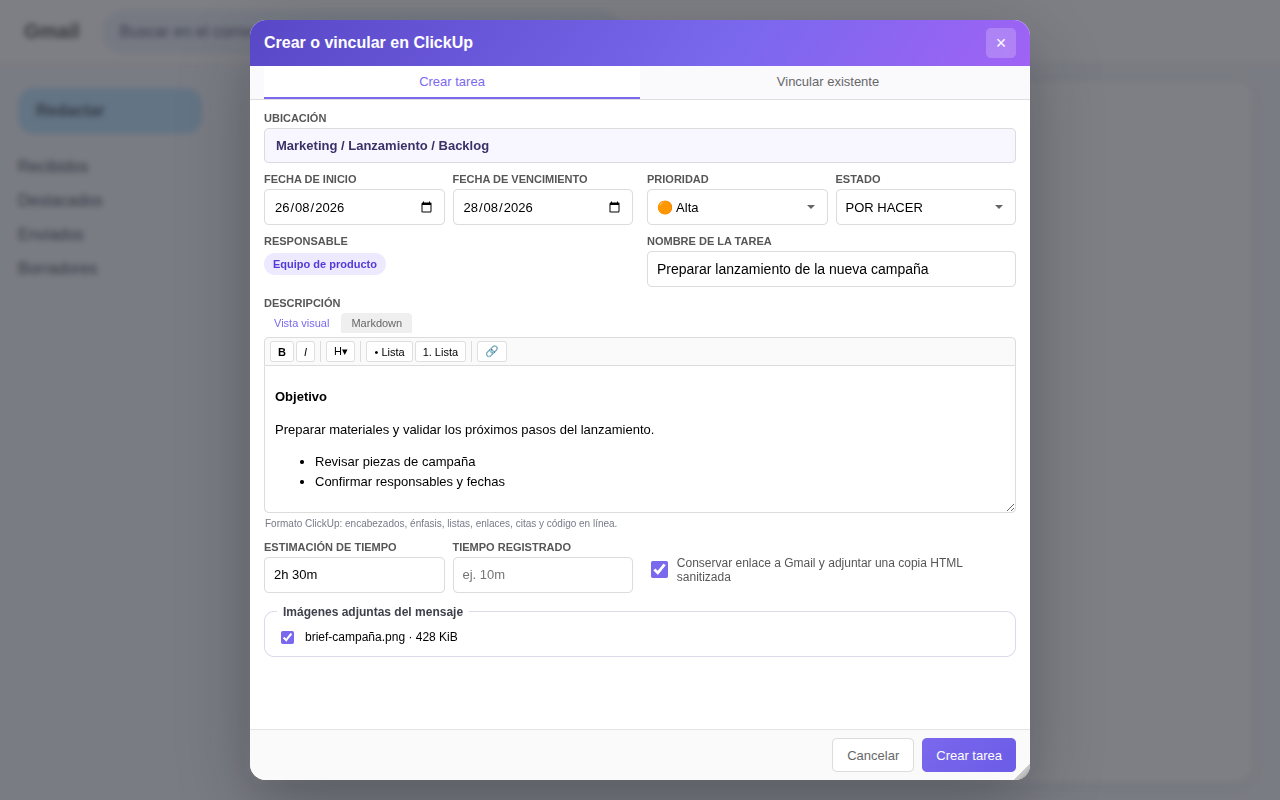
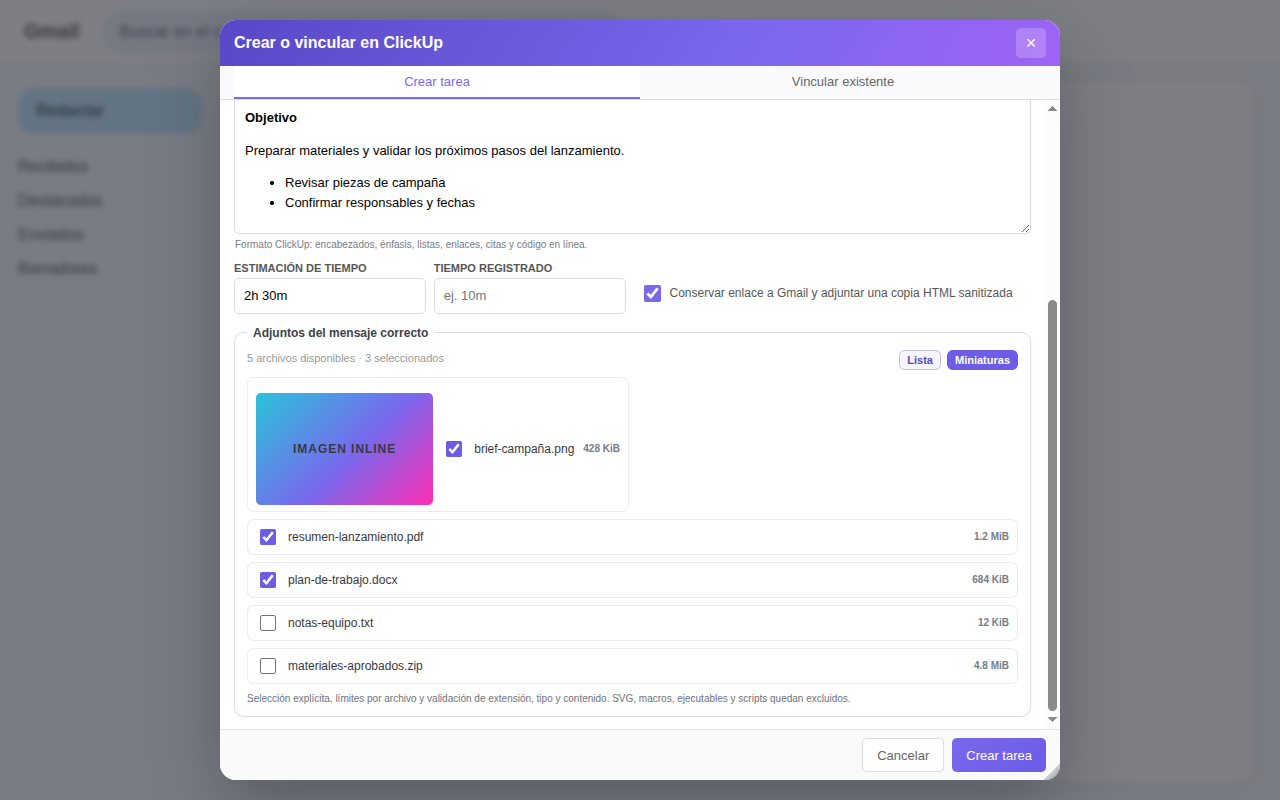
docs: finalize Chrome 2.1.0 release assets

diff --git a/store-assets/screenshot-create-task.html b/store-assets/screenshot-create-task.html
@@ -20,14 +20,25 @@
     .gmail-message h1 { margin: 0 0 18px; font-size: 22px; }
     .gmail-message p { max-width: 680px; color: #687087; line-height: 1.6; }
     .cu-modal-container { background: rgba(18,20,31,.56); backdrop-filter: blur(3px); }
-    .cu-modal-window { height: min(760px, calc(100vh - 24px)); }
+    .cu-modal-window { width: min(840px, calc(100vw - 24px)); height: min(760px, calc(100vh - 24px)); }
     .cu-location-path { display: block; padding: 9px 11px; border: 1px solid #ddd; border-radius: 5px; color: #372d68; background: #f8f7ff; font-size: 13px; font-weight: 700; }
     .cu-editor-visual { min-height: 112px; }
     .cu-selected-assignees { margin-top: 6px; }
     .demo-assignee { display: inline-flex; align-items: center; gap: 6px; padding: 5px 9px; border-radius: 99px; color: #5138d8; background: #eeeaff; font-size: 11px; font-weight: 700; }
-    .cu-attachment-picker { padding: 9px 12px; }
-    .demo-file { display: flex; align-items: center; gap: 8px; font-size: 12px; }
-    .demo-file input { accent-color: #7B68EE; }
+    .cu-attachment-picker { padding: 10px 12px; }
+    .cu-attachment-toggle[aria-pressed="true"] { color: #fff; background: #6c5ce7; border-color: #6c5ce7; }
+    .cu-attachment-list-thumbnails { grid-template-columns: repeat(2, minmax(0, 1fr)); }
+    .cu-attachment-option-image { min-width: 0; }
+    .demo-preview {
+      display: grid !important;
+      place-items: center;
+      color: #fff;
+      background: linear-gradient(135deg, #26c6da, #7b68ee 55%, #ff2bb5) !important;
+      font-size: 12px;
+      font-weight: 800;
+      letter-spacing: .08em;
+    }
+    .demo-safety-note { margin: 8px 0 0; color: #6e7080; font-size: 10px; line-height: 1.4; }
   </style>
 </head>
 <body>
@@ -62,11 +73,55 @@
           <div class="cu-form-row cu-form-row-inline"><div class="cu-form-group"><label>Estimación de tiempo</label><input type="text" class="cu-input" value="2h 30m"></div><div class="cu-form-group"><label>Tiempo registrado</label><input type="text" class="cu-input" placeholder="ej. 10m"></div></div>
           <div class="cu-form-row cu-email-options"><label class="cu-checkbox-label"><input type="checkbox" checked> Conservar enlace a Gmail y adjuntar una copia HTML sanitizada</label></div>
         </div>
-        <fieldset class="cu-attachment-picker cu-attach-files-row"><legend>Imágenes adjuntas del mensaje</legend><label class="demo-file"><input type="checkbox" checked> brief-campaña.png · 428 KiB</label></fieldset>
+        <fieldset class="cu-attachment-picker cu-attach-files-row">
+          <legend>Adjuntos del mensaje correcto</legend>
+          <div class="cu-attachment-toolbar">
+            <p class="cu-hint">5 archivos disponibles · 3 seleccionados</p>
+            <div class="cu-attachment-actions" role="group" aria-label="Vista de adjuntos">
+              <button class="cu-attachment-toggle" type="button" aria-pressed="false">Lista</button>
+              <button class="cu-attachment-toggle" type="button" aria-pressed="true">Miniaturas</button>
+            </div>
+          </div>
+          <div class="cu-attachment-list cu-attachment-list-thumbnails">
+            <label class="cu-attachment-option cu-attachment-option-image">
+              <span class="cu-attachment-preview demo-preview">IMAGEN INLINE</span>
+              <input type="checkbox" checked>
+              <span>brief-campaña.png</span>
+              <small>428 KiB</small>
+            </label>
+            <label class="cu-attachment-option">
+              <input type="checkbox" checked>
+              <span>resumen-lanzamiento.pdf</span>
+              <small>1.2 MiB</small>
+            </label>
+            <label class="cu-attachment-option">
+              <input type="checkbox" checked>
+              <span>plan-de-trabajo.docx</span>
+              <small>684 KiB</small>
+            </label>
+            <label class="cu-attachment-option">
+              <input type="checkbox">
+              <span>notas-equipo.txt</span>
+              <small>12 KiB</small>
+            </label>
+            <label class="cu-attachment-option">
+              <input type="checkbox">
+              <span>materiales-aprobados.zip</span>
+              <small>4.8 MiB</small>
+            </label>
+          </div>
+          <p class="demo-safety-note">Selección explícita, límites por archivo y validación de extensión, tipo y contenido. SVG, macros, ejecutables y scripts quedan excluidos.</p>
+        </fieldset>
       </div>
       <div class="cu-modal-footer"><button class="cu-btn cu-btn-secondary">Cancelar</button><button class="cu-btn cu-btn-primary">Crear tarea</button></div>
       <div class="cu-resize-handle"></div>
     </div>
   </div>
+  <script>
+    requestAnimationFrame(() => {
+      const body = document.querySelector('.cu-modal-body');
+      if (body) body.scrollTop = body.scrollHeight;
+    });
+  </script>
 </body>
 </html>

diff --git a/app/app.html b/app/app.html
@@ -81,7 +81,7 @@
                         <button type="button" class="theme-btn owner-theme-option" data-theme-choice="spiritfox" aria-pressed="false" hidden><span class="theme-swatch theme-swatch-spiritfox" aria-hidden="true"></span>Spiritfox</button>
                     </div>
                     <div class="phase-badge"><span aria-hidden="true"></span>Gmail · Calendar · Meet</div>
-                    <button id="pluginVersionUnlock" class="version-unlock" type="button" aria-label="Versión de la extensión">v2.0.1</button>
+                    <button id="pluginVersionUnlock" class="version-unlock" type="button" aria-label="Versión de la extensión">v2.1.0</button>
                 </div>
             </header>
 

diff --git a/MULTIBROWSER_MIGRATION_PLAN.md b/MULTIBROWSER_MIGRATION_PLAN.md
@@ -7,7 +7,10 @@ distribuciones independientes.
 ## Baseline
 
 - Fecha del plan: 2026-08-23.
-- Fuente estable: `main` en `dd556a40dc413bdb71dfa08dbbff44ab605ef572`.
+- Base integrada: `main` en `dd556a40dc413bdb71dfa08dbbff44ab605ef572`.
+- Release candidate Chrome: `2.1.0` en
+  `chore/remove-inboxsdk-remnants`, commit
+  `c620ad5 feat: release TaskBridge v2.1.0`.
 - Release de rollback: `v2.0.1`.
 - Distribuciones objetivo: Chrome Web Store y Firefox Add-ons (AMO).
 - Repositorio: uno.
@@ -15,6 +18,8 @@ distribuciones independientes.
 - Artefactos, manifiestos, OAuth, firma y publicacion: separados por navegador.
 - El workspace experimental anterior de Firefox fue eliminado y no es una
   fuente valida para esta migracion.
+- La ficha HKS vigente aun describe ese workspace eliminado y queda
+  `needs-review`; no usar sus manifests, builds ni decisiones como entrada.
 
 ## Estados
 
@@ -94,12 +99,12 @@ Responsable: owner. Cargar como extension descomprimida
 anotar solo el comportamiento observado sin correos, tokens ni payloads reales.
 
 - [x] A17. Cargar el build en un perfil Chrome de prueba.
-- [ ] A18. Abrir Gmail y navegar entre bandeja e hilos.
-- [ ] A19. Confirmar lectura de asunto, remitente, cuerpo e ID estable del hilo.
+- [x] A18. Abrir Gmail y navegar entre bandeja e hilos.
+- [x] A19. Confirmar lectura de asunto, remitente, cuerpo e ID estable del hilo.
 - [x] A20. Abrir el modal de crear/vincular tarea.
-- [ ] A21. Confirmar render de tareas vinculadas.
-- [ ] A22. Crear una tarea en un destino de prueba autorizado.
-- [~] A23. Probar seleccion explicita de adjuntos compatibles.
+- [x] A21. Confirmar render de tareas vinculadas.
+- [x] A22. Crear una tarea en un destino de prueba autorizado.
+- [x] A23. Probar seleccion explicita de adjuntos compatibles.
   Correctivo listo para retest: `v2.0.1` limitaba la busqueda al `.gs` del
   cuerpo, pero Gmail tambien renderiza tarjetas en footers hermanos, incluso
   fuera de `.adn` en respuestas. El adapter asigna cada tarjeta al cuerpo
@@ -108,22 +113,31 @@ anotar solo el comportamiento observado sin correos, tokens ni payloads reales.
   SVG, formatos Office con macros, ejecutables y scripts. Tambien descubre
   imagenes embebidas sin tarjeta de adjunto cuando Gmail las sirve desde
   `mail.google.com`; no habilita hosts de imagenes externos.
-- [ ] A24. Probar hilos con varios mensajes, recarga y cambio de hilo.
-- [!] A25. Confirmar ausencia de errores nuevos y datos sensibles en consola.
-  Bloqueado: la primera pasada uso una instancia sin autenticacion ClickUp y
-  registro `MODAL_HIERARCHY_AUTH_REQUIRED` / `Not authenticated`. La traza
-  diagnostica segura no contiene secretos; repetir con una sola instancia de la
-  extension habilitada y conectada.
+- [x] A24. Probar hilos con varios mensajes, recarga y cambio de hilo.
+- [x] A25. Confirmar ausencia de errores nuevos y datos sensibles en consola.
+  Retest completado por el owner con la misma version `2.1.0` enviada a CWS;
+  todos los correctivos reportados quedaron validados en Chrome.
 
 ### Gate A
 
 - [x] A26. No quedan menciones activas de InboxSDK en fuente o distribucion.
 - [x] A27. QA automatizada verde.
-- [ ] A28. QA manual Chrome verde.
+- [x] A28. QA manual Chrome verde.
 - [x] A29. Revision del diff y del rollback completada.
 - [ ] A30. PR aprobado e integrado.
 
-**Estado Plan A:** `RELEASE_CANDIDATE_2.1.0_APPROVED_FOR_STORE_REVIEW`.
+### Seguimiento Chrome Web Store
+
+- [x] A31. Cargar el ZIP exacto `2.1.0` y confirmar la version del borrador.
+- [x] A32. Cancelar la revision obsoleta `2.0.0` sin afectar la version publica
+  `1.2.0`.
+- [x] A33. Actualizar descripcion e imagenes de la ficha para reflejar adjuntos
+  ampliados, imagenes inline, miniaturas, limites y exclusiones de seguridad.
+- [x] A34. Enviar `2.1.0` a revision sin publicacion automatica.
+- [~] A35. Esperar la respuesta de Chrome Web Store; `1.2.0` permanece publica
+  hasta la aprobacion y publicacion manual de `2.1.0`.
+
+**Estado Plan A:** `QA_CHROME_GREEN_A30_PENDING`.
 
 ---
 
@@ -265,7 +279,25 @@ verde; Calendar no presenta una capacidad falsa.
 **Gate B8:** paquete apto para envio; publicacion externa todavia requiere una
 aprobacion explicita.
 
-**Estado Plan B:** `BLOQUEADO_POR_PLAN_A`.
+### Fase B9: Cierre Web Y Descubribilidad
+
+- [ ] B9.1. Actualizar la pagina publica de TaskBridge solo cuando la
+  disponibilidad real de Chrome o Firefox cambie.
+- [ ] B9.2. Publicar el enlace AMO unicamente despues de que exista una ficha
+  aprobada y accesible; no anunciar compatibilidad Firefox antes de Gate B7.
+- [ ] B9.3. Mantener accesibles la pagina principal, privacidad, terminos y
+  soporte, con claims alineados al comportamiento distribuido.
+- [ ] B9.4. Actualizar `lastmod` en `sitemap.xml` solo si cambia contenido
+  publico; no modificar el sitemap por una release sin cambios en esas paginas.
+- [ ] B9.5. Confirmar que `robots.txt` declara el sitemap y permite indexacion de
+  las paginas publicas de TaskBridge.
+- [ ] B9.6. Verificar sitemap en Google Search Console y solicitar indexacion de
+  las URLs modificadas, sin convertir SEO en bloqueo de rollback o seguridad.
+
+**Gate B9:** pagina publica y stores describen la misma disponibilidad; sitemap
+valido y sin URLs falsas o retiradas.
+
+**Estado Plan B:** `BLOQUEADO_POR_A30`.
 
 ---
 
@@ -289,6 +321,10 @@ correos, payloads reales ni trazas sensibles.
 | 2026-08-23 | A21, A23 | Refresco de tareas eliminadas y respuestas Gmail SW corregidos | Doble confirmacion remota inmediata; revalidacion al volver a Gmail; 61/61 focales; suite 537 verdes y asercion documental corregida 8/8; typecheck, build y preflight verdes | Pendiente |
 | 2026-08-23 | A23 | Vista de miniaturas opcional lista para QA manual | Carga diferida solo para imagenes permitidas; documentos conservan filas; seleccion independiente; suite 539/539, typecheck, build y preflight verdes | Pendiente |
[1 lines of base64/hex data omitted]
+| 2026-08-23 | A31-A35 | `2.1.0` enviada a Chrome Web Store | Borrador `2.1.0` confirmado pendiente de revision; `1.2.0` sigue publica; publicacion automatica desactivada | No aplica |
+| 2026-08-23 | A33 | Ficha CWS alineada con `2.1.0` | Descripcion actualizada; icono 128x128, cinco capturas 1280x800 y mosaicos 440x280/1400x560 validados como PNG RGB sin alfa | No aplica |
+| 2026-08-23 | A18-A25, A28 | QA manual Chrome verde | Owner valido en Chrome la misma version `2.1.0` enviada a CWS y confirmo todos los correctivos como funcionales | No aplica |
+| 2026-08-23 | B9 discovery | Sitemap publico ya incluye TaskBridge | `/taskbridge/`, `/taskbridge/privacy/` y `/taskbridge/terms/` presentes; `robots.txt` declara `sitemap.xml`; sin cambio requerido hasta modificar contenido publico | No aplica |
 
 ## Registro De Decisiones
 
@@ -299,10 +335,14 @@ correos, payloads reales ni trazas sensibles.
 | DEC-03 | 2026-08-23 | Limpiar InboxSDK antes del port | Partir de una base comprobada y auditable |
 | DEC-04 | 2026-08-23 | Mantener `v2.0.1` como rollback | Release estable, publicada y verificada |
 | DEC-05 | 2026-08-23 | El owner ejecuta A17-A25 | La QA requiere sesiones Gmail/ClickUp autenticadas y una escritura de prueba |
+| DEC-06 | 2026-08-23 | El envio a CWS no cierra Gate A | La revision externa no reemplaza QA manual Chrome ni integracion a `main` |
+| DEC-07 | 2026-08-23 | No reutilizar la copia Firefox historica documentada en HKS | Fue eliminada y contradice la estrategia vigente de una sola fuente; HKS queda `needs-review` |
+| DEC-08 | 2026-08-23 | Actualizar sitemap solo ante cambios publicos | Las URLs TaskBridge ya estan incluidas; una release sin cambios de pagina no justifica alterar `lastmod` |
 
 ## Estado General
 
-- Plan A: `RELEASE_CANDIDATE_2.1.0_APPROVED_FOR_STORE_REVIEW`.
-- Plan B: `BLOQUEADO_POR_PLAN_A`.
-- Publicacion Chrome: fuera de alcance de este plan hasta un gate separado.
+- Plan A: `QA_CHROME_GREEN_A30_PENDING`.
+- Plan B: `BLOQUEADO_POR_A30`.
+- Chrome Web Store: `2.1.0` pendiente de revision; `1.2.0` publica; publicacion
+  automatica desactivada.
 - Publicacion AMO: no autorizada.
